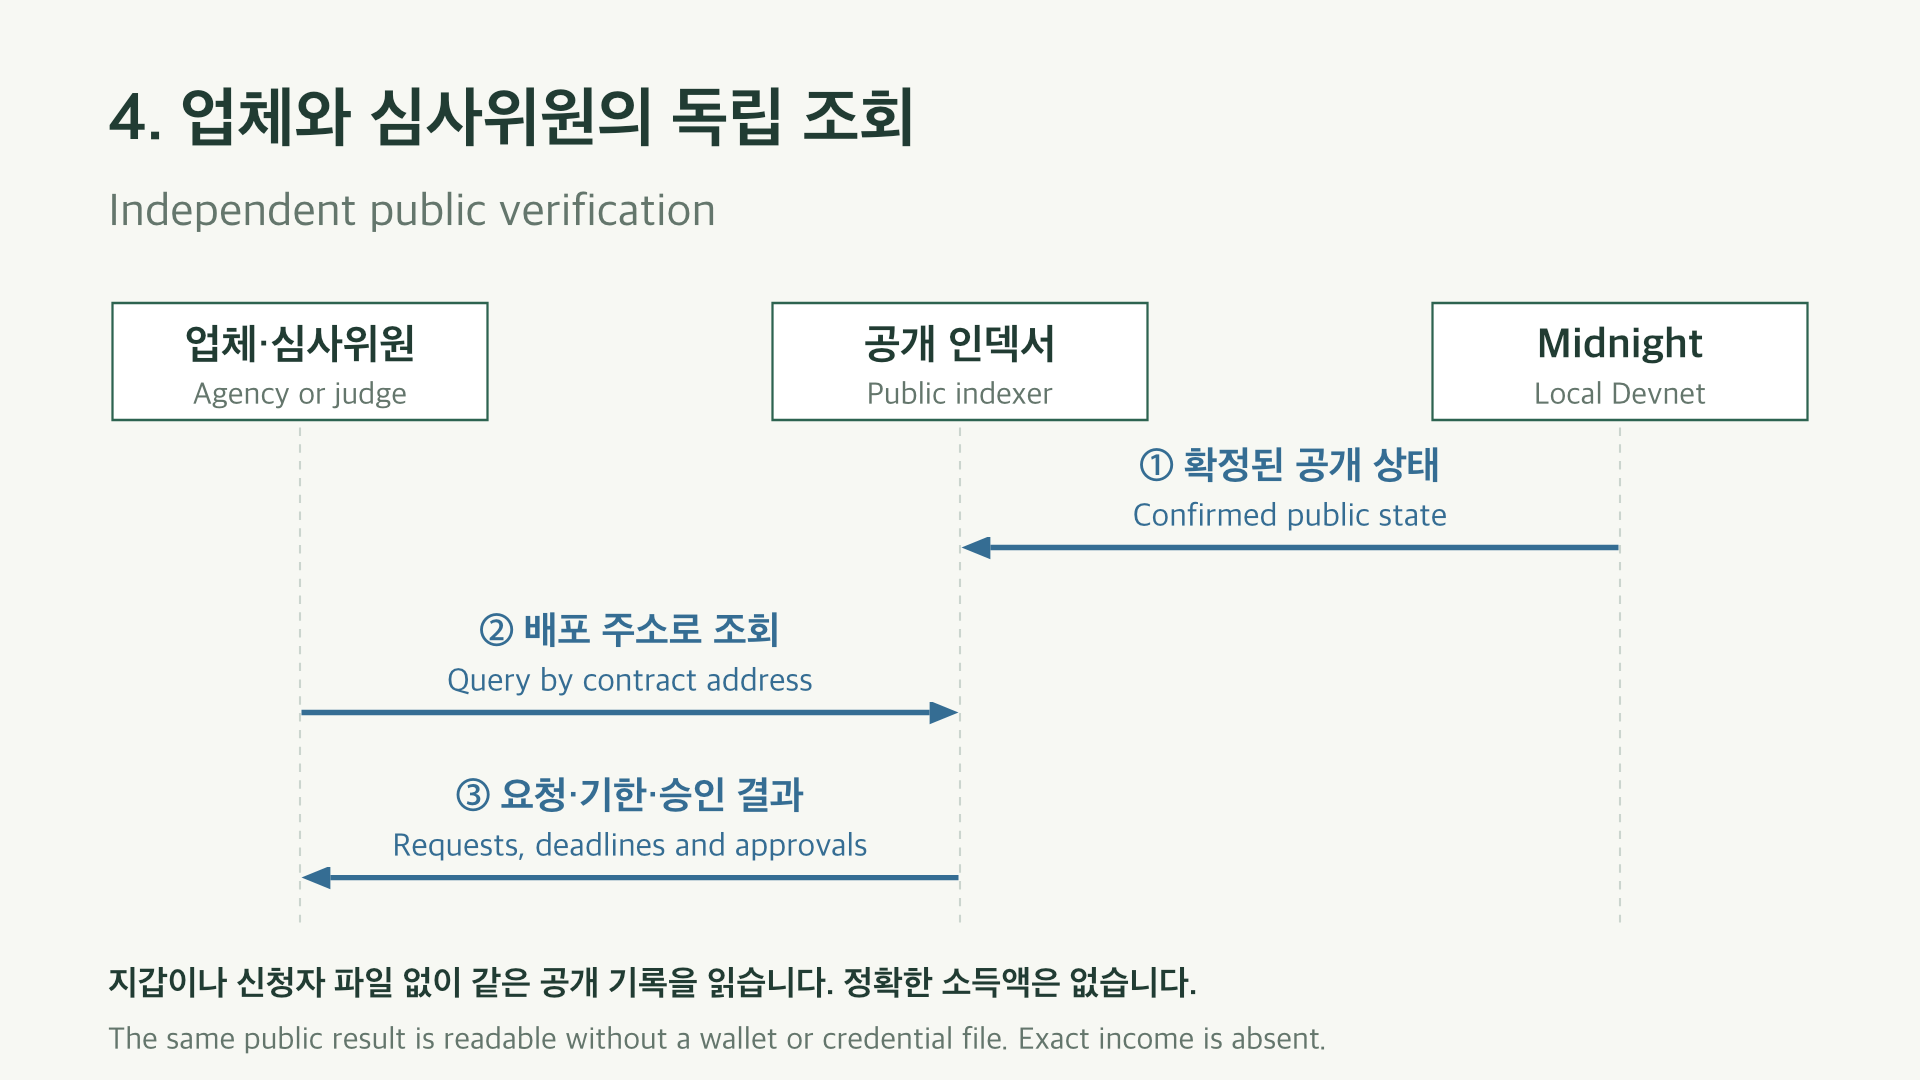
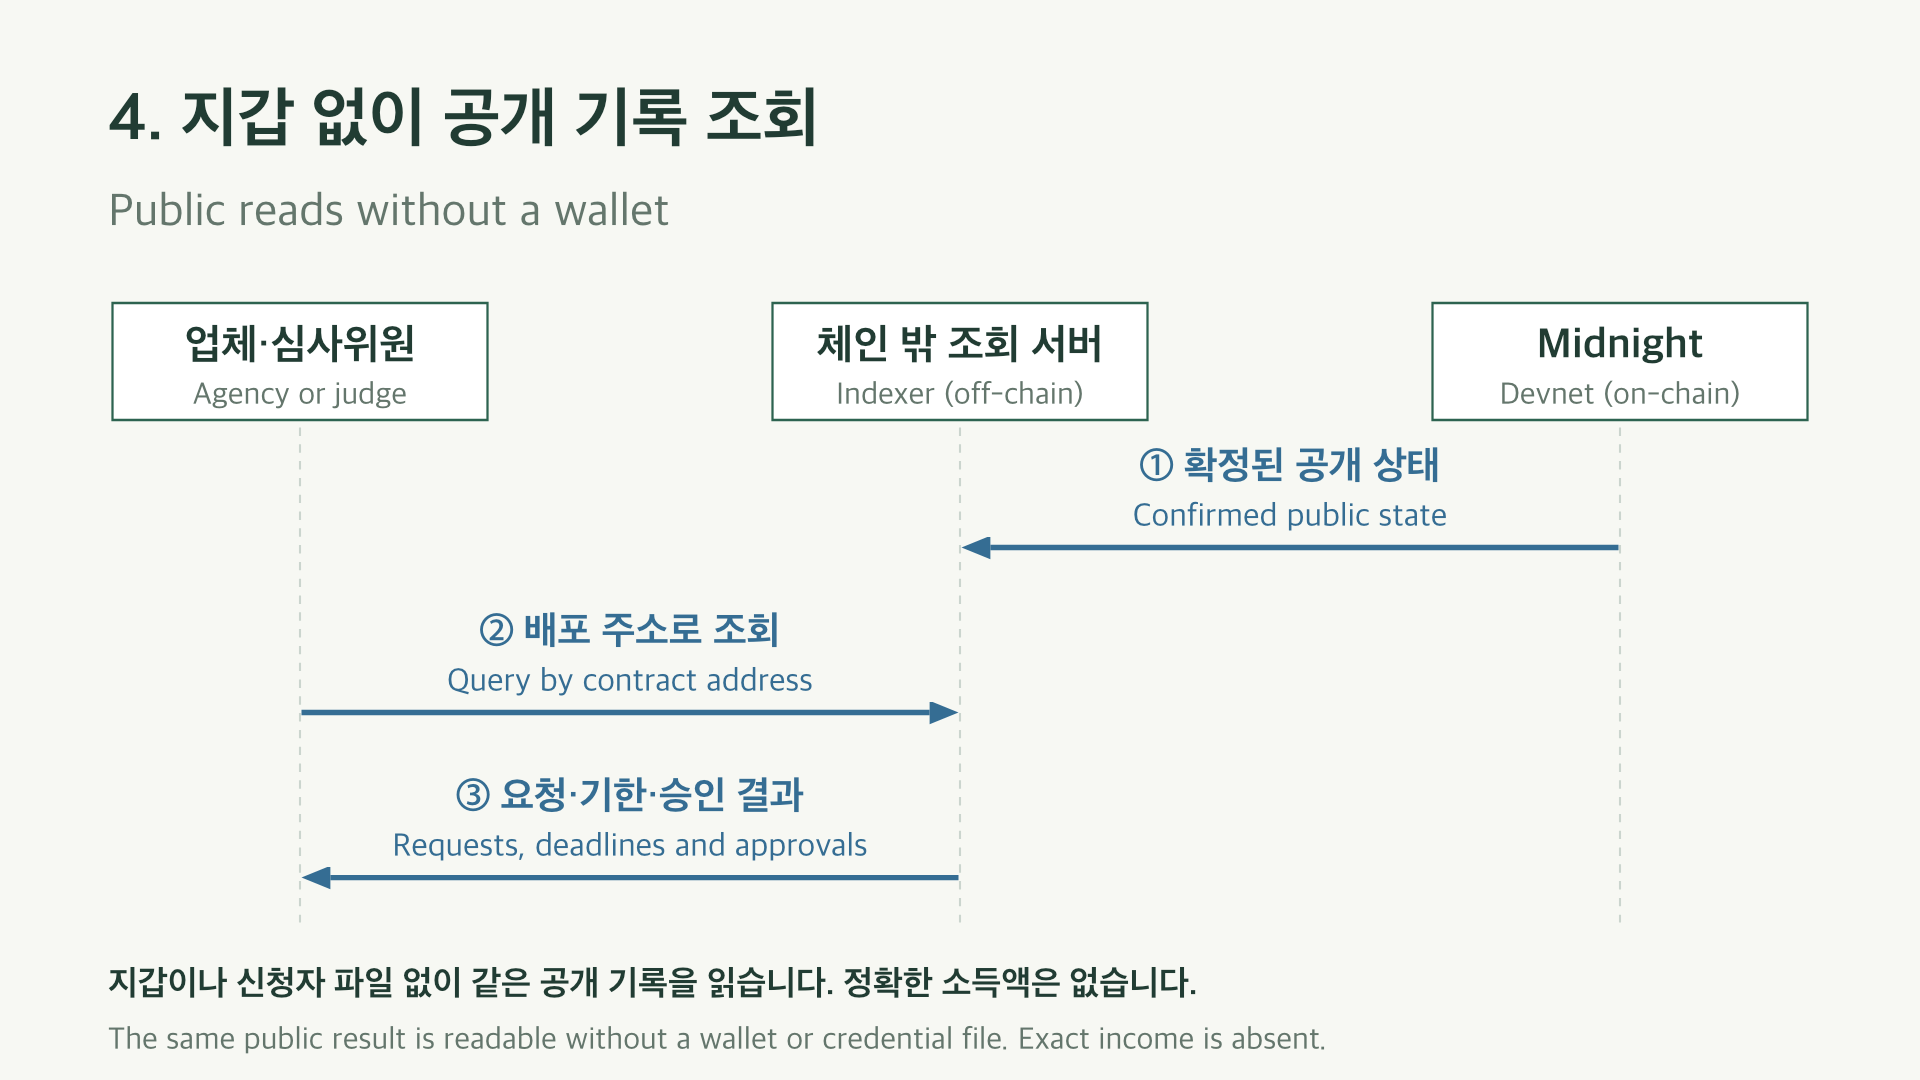
Clarify the indexer as an off-chain public read service

diff --git a/submission/presentation.md b/submission/presentation.md
@@ -64,17 +64,23 @@ English: The agency registers a request ID and time bounds. The applicant receiv
 
 English: The off-chain prover processes private inputs and returns a ZK proof. The application uses the test wallet to submit a proof-bearing transaction. Midnight verifies it and records approval. Loopback addresses may forward to another machine.
 
-## 7. 업체와 심사위원의 독립 조회 / Independent public verification
+## 7. 지갑 없이 공개 기록 조회 / Public reads without a wallet
 
-![공개 조회](diagrams/05-public-read.png)
+![체인 밖 인덱서와 Midnight의 역할 구분](diagrams/05-public-read.png)
 
-1. 인덱서는 확정된 공개 체인 상태를 조회할 수 있게 제공한다.
-2. 업체 또는 심사위원이 배포 주소로 인덱서를 조회한다.
-3. 같은 공개 요청 식별값·기한·승인 기록을 읽는다. 신청자 파일이나 지갑 연결은 필요하지 않다.
+1. Midnight가 증명 거래를 검증하고 승인 기록을 확정한다.
+2. **체인 밖 조회 서버인 인덱서**가 공개 체인 상태를 따라가며 조회할 수 있게 정리한다.
+3. 업체 또는 심사위원은 배포 주소로 인덱서를 조회해 공개 요청 식별값·기한·승인 기록을 읽는다. 신청자 파일이나 지갑 연결은 필요하지 않다.
 
-발표: “업체가 성공 여부를 임의로 만드는 구조가 아닙니다. 신청자의 자료 없이 같은 체인 기록을 읽습니다. 요청의 공개 식별값과 배포 주소를 비교하면 같은 결과인지 확인할 수 있습니다.”
+발표: “Midnight가 증명을 검증하고 승인 기록을 확정합니다. 인덱서는 그 공개 기록을 앱에서 조회하기 쉽게 제공하는 체인 밖 서버입니다. 업체는 신청자의 원본 자료 없이 승인 결과를 확인합니다.”
 
-English: The agency or judge queries the public indexer by contract address and reads the same confirmed request and approval. This public read needs neither a connected wallet nor an applicant credential. The diagram describes data flow, not a specific chain-to-indexer push API.
+English: Midnight validates the proof transaction and records approval. An off-chain indexer follows the chain and serves public state. The agency or judge reads requests and approvals by contract address without a wallet or applicant credential.
+
+**조회 범위:** 별도 조회는 신청자의 보관함에 의존하지 않는다는 뜻이다. 현재 브라우저는 설정된 인덱서 응답을 읽으며, 체인 헤더와 포함 증명을 직접 검증하는 라이트 클라이언트는 아니다. 화면의 정확성은 인덱서의 응답과 동기화 상태에 의존한다. 인덱서의 조회 데이터가 바뀌어도 실제 체인 기록이 바뀌지는 않는다.
+
+**데모 구성:** ‘공개’는 조회 대상이 공개 원장이라는 뜻이다. 데모에서는 `undeployed` 노드와 별도로 Midnight 인덱서를 실행하며, 외부 인터넷에 공개된 조회 서비스라는 뜻은 아니다. 같은 배포 주소와 공개 요청 식별값을 비교한다. 첫 화살표는 데이터의 출처를 나타내며 특정 push API를 뜻하지 않는다.
+
+English: The separate read is independent of the applicant vault, but relies on the configured indexer. The browser does not independently authenticate its response using chain headers and inclusion proofs. Public refers to the ledger data, not a publicly hosted endpoint. Compare the contract address and public request identifier. The first arrow describes data provenance, not a specific push API.
 
 ## 8. 신청자 동의 / Applicant consent
 
@@ -121,6 +127,7 @@ English: The agency or judge queries the public indexer by contract address and 
 | 미혼임을 보증하나요? / Does this prove someone has never married? | 확인 기준일에 혼인 중이 아니라는 조건만 검증합니다. / It checks only that the person was not married on the evidence check date. |
 | 실제 서류 진위를 보증하나요? / Does Midnight authenticate documents? | 발급기관의 확인을 신뢰합니다. 공공기관 연동은 없습니다. / It relies on the issuer. There is no government integration. |
 | 개인정보보호법 준수가 완료됐나요? / Is compliance established? | 수집·보관할 정보의 범위를 줄이는 설계입니다. 준수 완료를 주장하지 않습니다. / The design reduces collected data. It does not establish legal compliance. |
+| 인덱서는 온체인인가요? / Is the indexer on-chain? | 체인 밖 조회 서버입니다. Midnight가 기록을 확정하고 인덱서는 공개 상태를 조회 가능하게 제공합니다. / It is off-chain. Midnight finalizes records and the indexer serves public state. |
 | 별도 조회는 어떻게 하나요? / How can a judge verify it? | 같은 배포의 별도 업체 화면에서 지갑·자격 파일 없이 공개 인덱서를 조회합니다. / Read the same deployment through the separate agency view without a wallet or credential file. |
 
 ## 자료 근거 / Sources
@@ -129,3 +136,5 @@ English: The agency or judge queries the public indexer by contract address and 
 - 실행·역할별 UI: [한국어 시연 가이드](../docs/matchproof-judge-guide.md), [English demo guide](../docs/matchproof-judge-guide.en.md)
 - 38개 검사와 빌드: [공개 clone 기록](evidence/2026-09-26-public-clone.json). 검사 당시 커밋을 명시한다.
 - 확정 거래와 거절 검사: [9/26 개발 체인 기록](evidence/2026-09-26-matchproof-smoke.json). 과거 거래이며 현재 요청의 유효성을 보장하지 않는다.
+
+- 인덱서 정의: [Midnight 공식 용어집](https://docs.midnight.network/glossary). 실제 조회 경로: [클라이언트](../src/matchproof/client.ts), 서비스 분리: [개발 네트워크 구성](../infra/compose.yml).

diff --git a/submission/diagrams/README.md b/submission/diagrams/README.md
@@ -22,8 +22,19 @@
 
 ![신청자, 증명 서버, Midnight 사이의 입력·증명·거래](04-proof.png)
 
-## 4. 공개 인덱서를 통한 독립 조회
+## 4. 체인 밖 인덱서를 통한 공개 조회
 
-![Midnight, 공개 인덱서, 업체와 심사위원 사이의 조회](05-public-read.png)
+![Midnight, 체인 밖 인덱서, 업체와 심사위원 사이의 조회](05-public-read.png)
 
 같은 배포의 역할 연결을 마친 상태를 전제로 한다. 준비 과정의 업체 등록값·배포, SDK 내부 수수료 균형과 세부 서명 순서는 생략했다. 실제 자격·요청·증명·조회는 [클라이언트](../../src/matchproof/client.ts)와 [Compact 계약](../../contracts/matchproof.compact)에 구현되어 있다. [발표자 노트](../presentation.md)에서 각 화살표를 설명한다.
+
+## 온체인과 체인 밖 서비스
+
+| 구성요소 | 위치 | 역할 |
+| --- | --- | --- |
+| Midnight 계약의 공개 상태 | 온체인 | 정책·자격 commitment·요청·승인 기록을 유지한다. Midnight가 제출된 증명을 검증하고 상태 변경을 확정한다. |
+| 인덱서 | 체인 밖 | 체인 상태를 따라가며 앱이 공개 기록을 조회할 수 있게 제공한다. |
+| 증명 서버 | 체인 밖 | 비공개 입력으로 ZK 증명을 생성한다. |
+| 참여자 앱 | 체인 밖 | 파일 전달·보관·동의·거래 제출·결과 표시를 처리한다. |
+
+공개 조회는 신청자의 자격 파일과 지갑 없이 가능하다. 현재 앱은 설정된 인덱서의 응답에 의존하며 브라우저 자체의 체인 헤더·포함 증명 검증은 구현하지 않았다. 데모 인덱서는 개발 네트워크용 서비스이고, ‘공개’가 인터넷 공개 호스팅을 의미하지는 않는다. [Midnight 공식 정의](https://docs.midnight.network/glossary), [구현과 운영 구성](../../infra/compose.yml).
